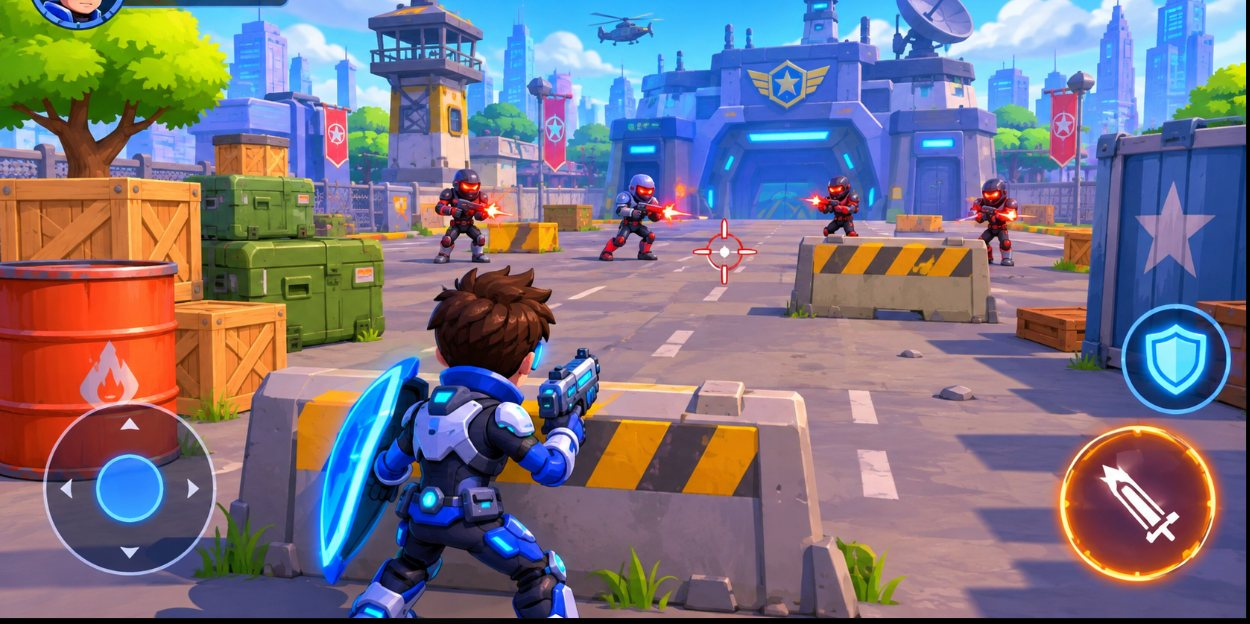
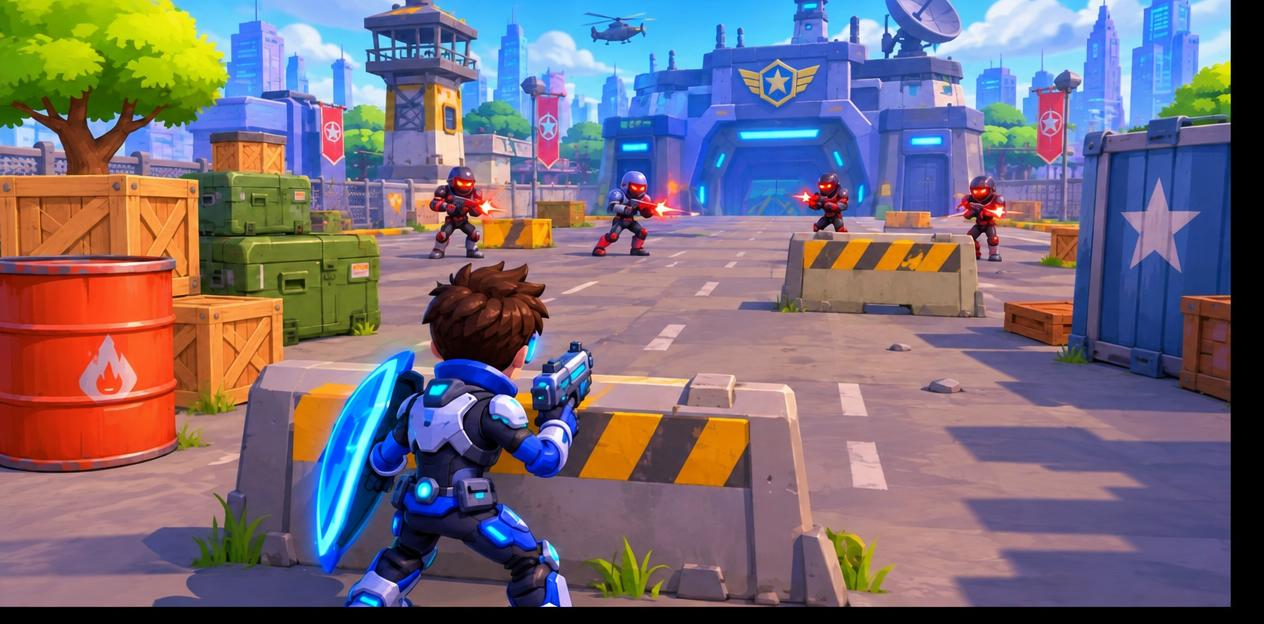
Home: clean arena art (no on-screen controls), compact stats cards, centered games count

diff --git a/frontend/src/styles.css b/frontend/src/styles.css
@@ -1005,7 +1005,7 @@ h2, h3 { text-shadow: 0 2px 0 color-mix(in oklab, var(--background) 70%, black);
 /* Home: small Games card on the left, Daily Games card filling the rest of the row. */
 .home-stats-row { display: grid; grid-template-columns: minmax(0, .8fr) minmax(0, 2fr); gap: .65rem; }
 .home-stat-card {
-  display: flex; min-width: 0; flex-direction: column; padding: .8rem .85rem;
+  display: flex; min-width: 0; flex-direction: column; padding: .5rem .7rem;
   border: 2px solid color-mix(in oklab, var(--hud-blue) 50%, transparent); border-radius: 1.25rem; color: var(--card-foreground);
   background: linear-gradient(180deg, color-mix(in oklab, var(--hud-blue) 12%, transparent), transparent 60%), var(--card);
   box-shadow: var(--shadow-card); backdrop-filter: blur(14px); -webkit-backdrop-filter: blur(14px);
@@ -1017,10 +1017,11 @@ h2, h3 { text-shadow: 0 2px 0 color-mix(in oklab, var(--background) 70%, black);
 .home-stat-title svg { color: var(--hud-blue); }
 .home-games-card { align-items: flex-start; justify-content: space-between; }
 .home-games-count {
-  margin-top: .4rem; font-family: var(--font-display); font-size: clamp(1.6rem, 8vw, 2.2rem); line-height: 1;
+  align-self: stretch; margin-top: .3rem; text-align: center;
+  font-family: var(--font-display); font-size: clamp(1.5rem, 7vw, 2rem); line-height: 1;
   font-variant-numeric: tabular-nums; color: var(--foreground); text-shadow: 0 0 14px color-mix(in oklab, var(--hud-blue) 60%, transparent);
 }
-.home-daily-card { gap: .55rem; }
+.home-daily-card { gap: .38rem; }
 .home-daily-progress { display: flex; align-items: center; gap: .55rem; }
 .home-daily-track {
   position: relative; overflow: hidden; height: .55rem; flex: 1 1 auto; border: 1px solid var(--border); border-radius: 999px;
@@ -1032,7 +1033,7 @@ h2, h3 { text-shadow: 0 2px 0 color-mix(in oklab, var(--background) 70%, black);
 }
 .home-daily-count { flex: 0 0 auto; font-family: var(--font-display); font-size: 1rem; line-height: 1; font-variant-numeric: tabular-nums; color: var(--gold); }
 .home-claim-button {
-  display: flex; align-items: center; justify-content: center; padding: .5rem .8rem;
+  display: flex; align-items: center; justify-content: center; padding: .38rem .8rem;
   border: 2px solid color-mix(in oklab, var(--success) 70%, white); border-radius: .9rem;
   color: var(--primary-foreground); background: linear-gradient(180deg, color-mix(in oklab, var(--success) 75%, white), var(--success));
   font-family: var(--font-display); font-size: 1.05rem; letter-spacing: .03em; line-height: 1;
